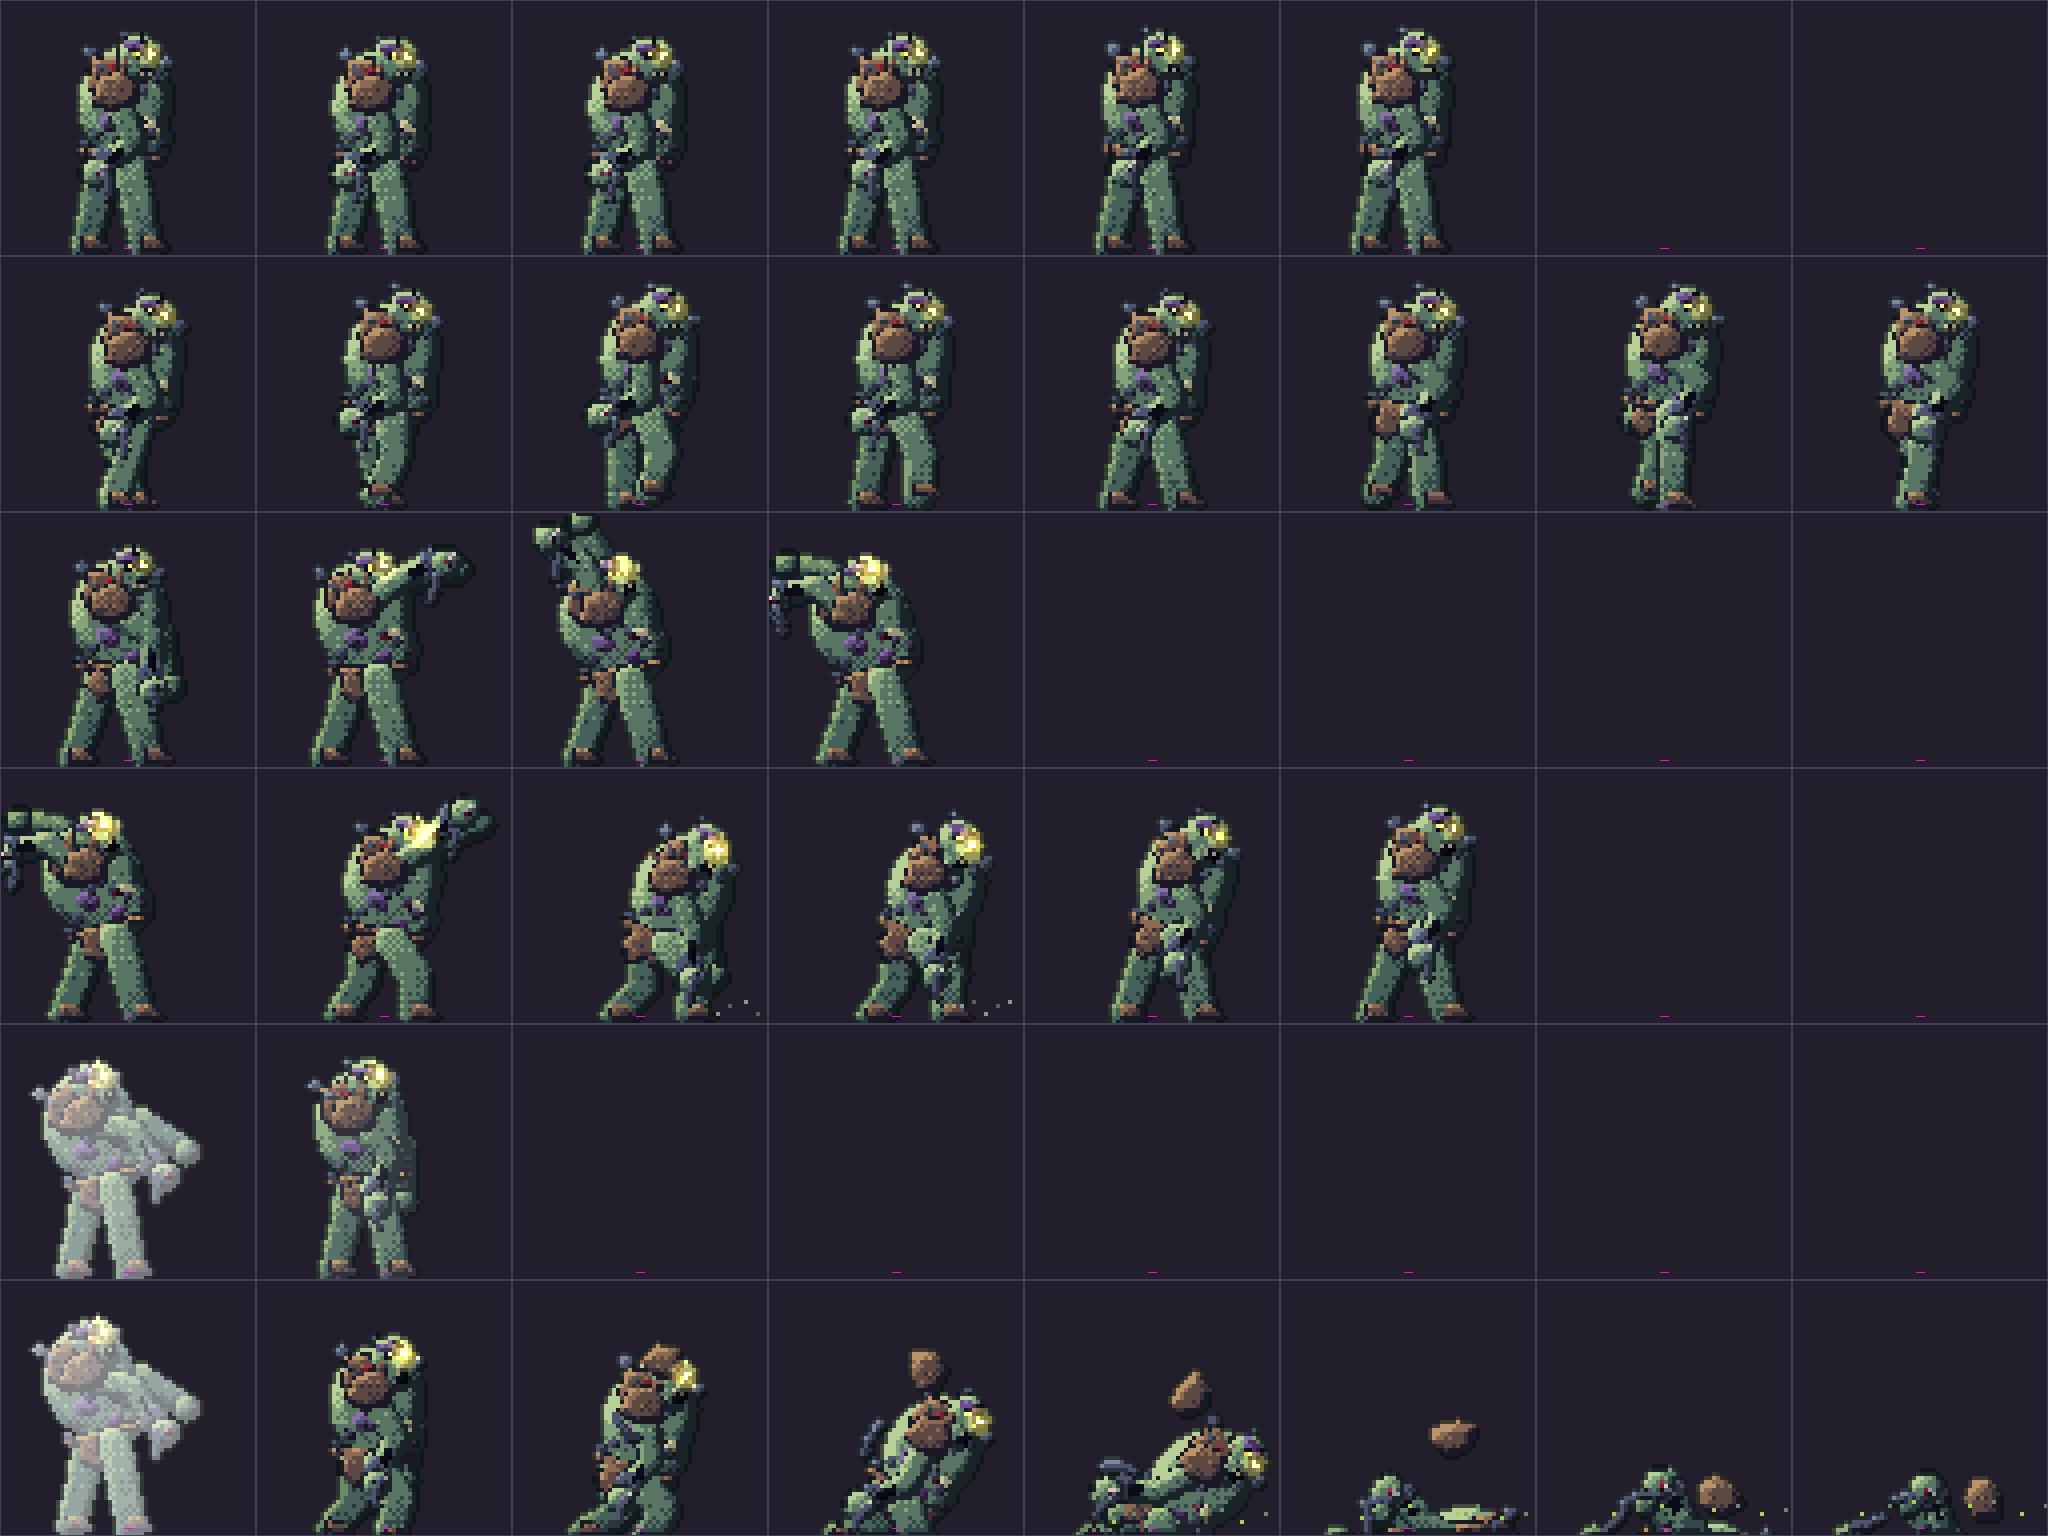
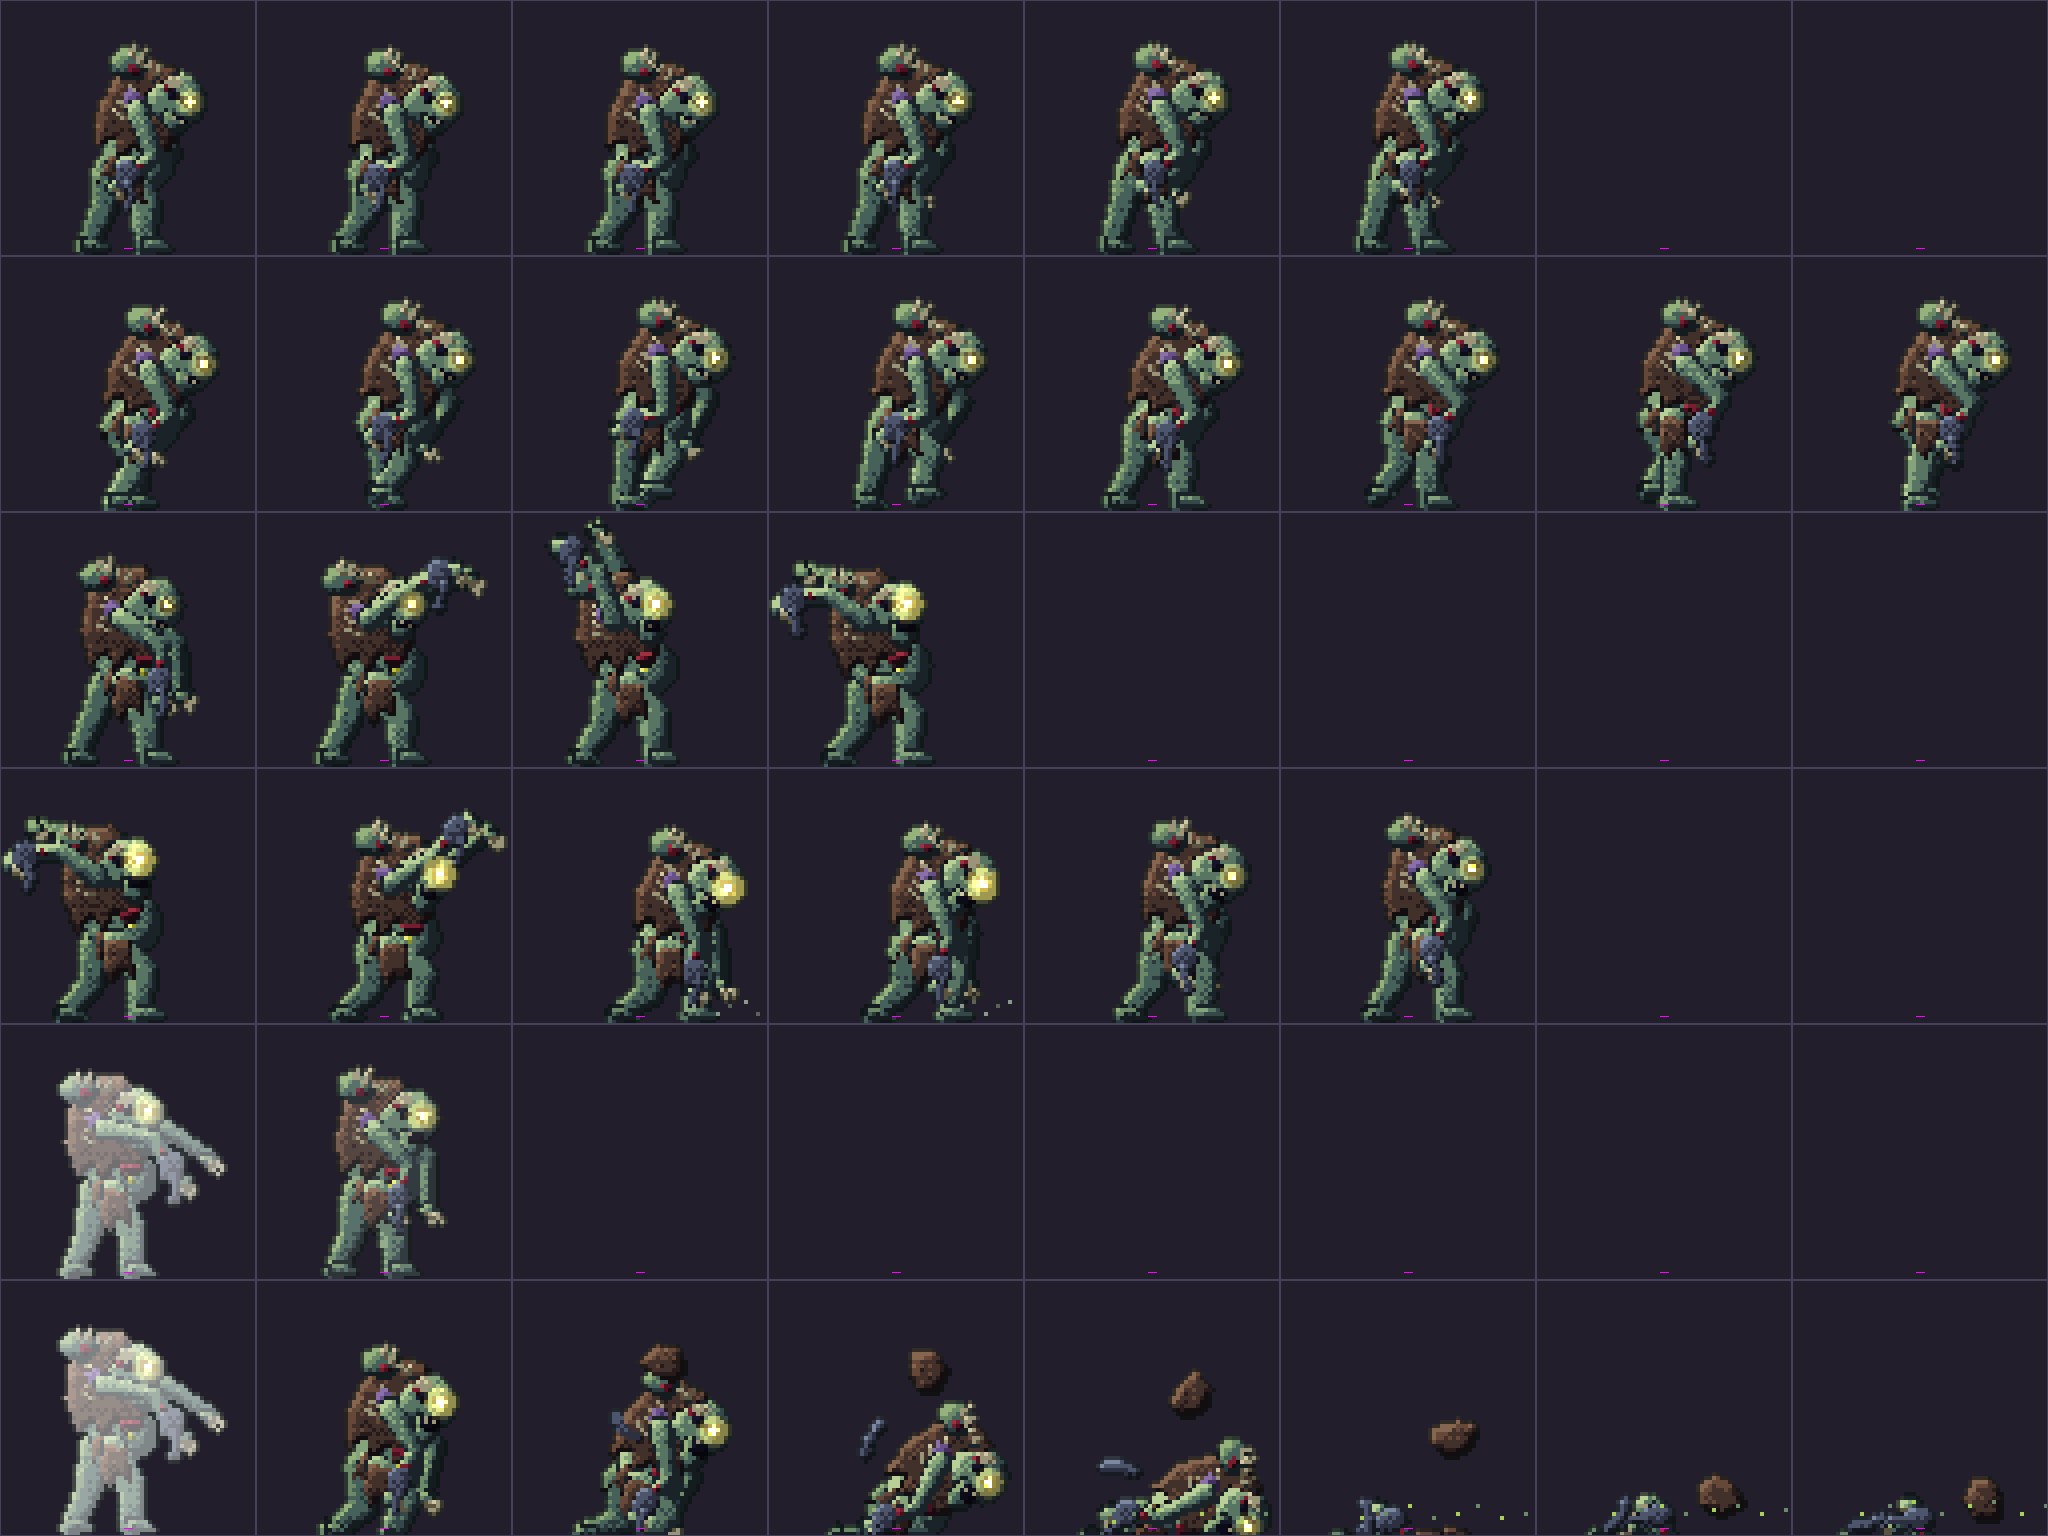
Enemigos (piloto): zombi encorvado con joroba, brazos largos con garras, cabeza caida y harapos (silueta nueva)
Claude-Session: https://claude.ai/code/session_011eeWNo3MRZcztybaatA5Az

diff --git a/tools/art_enemies/en_catacumbas.py b/tools/art_enemies/en_catacumbas.py
@@ -552,104 +552,110 @@ def zom_pose(a, i, n):
     return P
 
 
+RAGZ = Mat(ramp=['#120e10', '#261a1a', '#42302a', '#654838', '#876650'], bevel=1.4, tex=0.5, seed=37)
+PUSZ = Mat(ramp=['#4a4a14', '#8a8c24', '#c4c43c', '#eef07a'], bevel=0.8, tex=0.1, seed=38)
+
+
 def zombi_body(c, P, a='idle', skip_parts=()):
+    """Zombi (rediseno fase 3): cadaver ENCORVADO con joroba de columna expuesta, cabeza caida hacia delante con la mandibula
+    colgando, brazos larguisimos con garras que casi rozan el suelo, vientre hinchado cosido y harapos en vez de armadura.
+    Mismos parametros de pose que la version anterior (hx, dy, lean, arm, arm2, head, belly, jaw, eye...)."""
     hx, dy, lean = P['hx'], P['dy'], P['lean']
     ph = P['ph']
-    hip = (hx, -23 + dy)
-    sl = (math.sin(lean), -math.cos(lean))
+    hip = (hx, -22 + dy)
+    hun = (lean * 0.7 + 0.18) if a in ('windup', 'attack') else (lean + 0.40)                                   # el tronco se dobla hacia delante (encorvado)
+    sl = (math.sin(hun), -math.cos(hun))
     if P['walk']:
         f1 = gait(ph, P['stride'], P['lift']); f2 = gait((ph + 0.5) % 1, P['stride'], P['lift'])
     elif a in ('windup', 'attack'):
         f1, f2 = (-7.0, 0), (6.0, 0)
     else:
         f1, f2 = (-4.5, 0), (4.5, 0)
-    # brazo lejano
-    chest = (hip[0] + 12 * sl[0], hip[1] + 12 * sl[1])
-    shf = (chest[0] + 1, chest[1] - 3)
-    e2, h2 = fk(shf, P['arm2'][0], 12.5, P['arm2'][1], 12.5)
-    with c.part(FLESHZ_B, line=0.5, bevel=2.2) as p:
-        p.limb(shf, e2, 3.4, 3.0)
-        p.limb(e2, h2, 3.0, 2.8)
-    with c.part(FLESHZ_B, line=0.5, bevel=2.0) as p:
-        p.ell(h2[0] + 0.6, h2[1] + 0.6, 3.3)
-    # pierna trasera
-    leg(c, (hip[0] - 3, hip[1] + 2), (hip[0] - 3 + f1[0], f1[1]), 10.2, 10.2, 4.2, 3.6, FLESHZ_B, bend=-1, footmat=ARMOR_R, footlen=6, footh=3.4)
-    # torso: vientre hinchado
-    with c.at(hip[0] + 4.0 * sl[0], hip[1] + 4.0 * sl[1], lean):
-        bl = P['belly']
-        with c.part(FLESHZ, line=0.5, bevel=3.4) as p:
-            p.ell(1.0, -9.5, 11.5 + bl * 0.5, 14.0)                 # tronco
-            p.ell(3.5, -1.0, 9.5 + bl * 0.6, 8.5 + bl * 0.4)        # barriga hinchada
-        with c.part(BRUISE, bevel=1.2) as p:
-            p.ell(-2.0, -4.0, 3.2, 2.4, 0.4)
-            p.ell(4.6, 0.8, 2.2, 1.6, -0.3)
-        with c.part(WOUND, bevel=1.0) as p:
-            p.poly([(5.0, -6.5), (8.5, -5.0), (7.5, -2.6), (4.6, -3.5)])
-            p.ell(-5, -12, 1.8, 1.2)
-        with c.part(TEETH, bevel=0.6) as p:  # costillas expuestas
+    chest = (hip[0] + 13 * sl[0], hip[1] + 13 * sl[1])
+    AL = 12.4                                              # brazos muy largos
+
+    def arm(sh, ang, mat, hand_r):
+        e, h = fk(sh, ang[0], AL, ang[1], AL)
+        with c.part(mat, line=0.5, bevel=2.0) as p:
+            p.limb(sh, e, 2.9, 2.2)
+            p.limb(e, h, 2.2, 1.8)
+        with c.part(mat, line=0.5, bevel=1.6) as p:      # mano grande
+            p.ell(h[0] + 0.5, h[1] + 0.8, hand_r, hand_r * 0.85)
+        with c.part(TEETH, bevel=0.5, line=0.3) as p:    # garras
             for k in range(3):
-                p.limb((6.8 + k * 0.4, -5.8 + k * 1.2), (9.0 + k * 0.4, -5.2 + k * 1.2), 0.45)
-        # cinturon y taparrabos podrido
-        with c.part(ARMOR_R, line=0.5, bevel=1.4) as p:
-            p.poly([(-9, 2.0), (12, 2.5), (12, 5.0), (-9, 4.6)])
-            p.poly([(-6, 4.6), (4, 5.0), (3, 12), (0, 10), (-3, 13), (-7, 9)])
-        # peto oxidado cruzado por cadenas
-        with c.part(ARMOR_R, line=0.5, bevel=1.6) as p:
-            p.poly([(-8, -20), (3, -23), (6, -15), (4, -9), (-5, -8), (-9, -13)])
+                p.limb((h[0] + 0.5 + k * 1.3, h[1] + 1.5), (h[0] + 1.2 + k * 1.3, h[1] + 3.8 + (k % 2) * 0.8), 0.45, 0.2)
+        return e, h
+    # brazo lejano
+    shf = (chest[0] + 2, chest[1] - 1)
+    arm(shf, P['arm2'], FLESHZ_B, 2.3)
+    # pierna trasera: flaca, rodilla hacia dentro
+    leg(c, (hip[0] - 2, hip[1] + 2), (hip[0] - 3 + f1[0], f1[1]), 10.5, 10.5, 3.4, 2.4, FLESHZ_B, bend=-1, footmat=FLESHZ_B, footlen=6, footh=2.6)
+    # torso encorvado
+    with c.at(hip[0] + 3.0 * sl[0], hip[1] + 3.0 * sl[1], hun):
+        bl = P['belly']
+        with c.part(FLESHZ, line=0.5, bevel=3.2) as p:
+            p.ell(1.0, -8.5, 9.0, 12.5)                              # caja toracica hundida
+            p.ell(4.8, 0.5, 8.8 + bl * 0.6, 7.6 + bl * 0.4)          # vientre hinchado y colgante
+        with c.part(RAGZ, line=0.5, bevel=1.4) as p:                 # harapos de la camisa
+            p.poly([(-10, -22), (2, -24), (9, -17), (10.5, -6), (9.5, -1.5), (6, 1.5), (3, -2.5), (0.5, 3.0), (-3, -1.5), (-6, 2.5), (-10, -6)])
+        with c.part(RAGZ, bevel=0.8, line=0.4) as p:                 # tira colgante
+            p.poly([(-2, 2), (3, 2.5), (2.2, 9), (-0.4, 7), (-1.6, 11)])
+        with c.part(WOUND, bevel=1.0) as p:                          # tajo y puntos
+            p.poly([(4.0, -2.4), (9.0, -3.4), (9.4, -1.6), (4.4, -0.6)])
+        with c.part(TEETH, bevel=0.6, line=0.3) as p:                # costillas asomando por el costado
+            for k in range(4):
+                p.limb((-6.4, -15 + k * 2.4), (-2.6, -14.2 + k * 2.4), 0.55, 0.4)
+        with c.part(PUSZ, bevel=0.6) as p:
+            p.ell(7.0, 1.2, 1.0, 0.8)
+        with c.part(BRUISE, bevel=1.2) as p:
+            p.ell(-3.0, -12, 3.0, 2.2, 0.4)
+        # joroba: columna con vertebras que atraviesan la piel
+        with c.part(FLESHZ_B, line=0.5, bevel=2.2) as p:
+            p.ell(-8.4, -19.5, 4.6, 3.8)
+        with c.part(TEETH, bevel=0.6, line=0.3) as p:
+            for k in range(4):
+                p.poly([(-10.6 + k * 2.6, -21.4 + k * 0.5), (-9.4 + k * 2.6, -25.0 + k * 0.7 - (k % 2) * 1.2), (-8.2 + k * 2.6, -21.2 + k * 0.4)])
         with c.part(WOUND, bevel=0.8) as p:
-            p.poly([(-4, -18), (-1, -19), (0, -15)])
-        for (x0, y0, x1, y1) in ((-9, -21, 11, 0), (10, -20, -8, 2)):
-            nlk = 8
-            with c.part(CHAIN, bevel=0.6, line=0.3) as p:
-                for k in range(nlk):
-                    u = k / (nlk - 1)
-                    p.ell(lerp(x0, x1, u), lerp(y0, y1, u) + 1.0 * math.sin(u * 3.14), 1.5, 1.0 if k % 2 else 1.5, 0.5)
+            p.ell(-7.0, -19.0, 1.6, 1.0, 0.3)
     # pierna delantera
-    leg(c, (hip[0] + 3, hip[1] + 2), (hip[0] + 3 + f2[0], f2[1]), 10.2, 10.2, 4.4, 3.7, FLESHZ, bend=-1, footmat=ARMOR_R, footlen=6, footh=3.4)
-    # cabeza
-    nk = (hip[0] + 21 * sl[0] + 0, hip[1] + 21 * sl[1] - 2)
+    leg(c, (hip[0] + 3, hip[1] + 2), (hip[0] + 3 + f2[0], f2[1]), 10.5, 10.5, 3.6, 2.5, FLESHZ, bend=-1, footmat=FLESHZ, footlen=6.5, footh=2.8)
+    with c.part(RAGZ, line=0.4, bevel=1.0) as p:               # pernera rota
+        p.poly([(hip[0] + 0.5, hip[1] + 1), (hip[0] + 6.5, hip[1] + 1.5), (hip[0] + 6.5 + f2[0] * 0.2, hip[1] + 11), (hip[0] + 4.0, hip[1] + 8.5), (hip[0] + 2.0, hip[1] + 12), (hip[0] - 0.5, hip[1] + 8)])
+    # cabeza: grande, caida, con la mandibula descolgada
+    nk = (chest[0] + 6.5 * sl[0] + 2.5, chest[1] + 6.5 * sl[1] + 2.0)
     hd = P['head']
-    with c.at(nk[0] + 3.5, nk[1] - 2.0, lean * 0.5 + hd):
-        with c.part(FLESHZ, line=0.5, bevel=2.4) as p:
-            p.ell(0, 0, 5.6, 5.0)
-            p.poly([(-3.5, 3), (4.0, 2.6), (4.2, 5.0 + P['jaw'] * 0.5), (-1.0, 5.8 + P['jaw'] * 0.6)])
-        with c.part(BRUISE, bevel=1.0) as p:
-            p.ell(-1, -2.5, 3, 1.4)
+    jw = P['jaw']
+    with c.at(nk[0] + 3.0, nk[1], lean * 0.3 + hd + 0.35):
+        with c.part(FLESHZ, line=0.5, bevel=2.6) as p:
+            p.ell(0, 0, 7.4, 6.6)
+        with c.part(FLESHZ_B, line=0.5, bevel=1.8) as p:         # mandibula colgando
+            p.poly([(-1.5, 3.2), (4.8, 3.0), (5.2, 5.0 + jw * 0.55), (3.0, 7.2 + jw * 0.7), (-0.5, 6.0 + jw * 0.5)])
         with c.part(DARK) as p:
-            p.ell(2.8, -0.8, 1.7, 1.5)
-            p.ell(-0.6, -0.8, 1.3, 1.2)
-            p.poly([(1.0, 3.2), (4.0, 3.0), (4.0, 3.2 + P['jaw'] * 0.5), (1.0, 3.6 + P['jaw'] * 0.5)])
+            p.poly([(0.6, 3.4), (5.0, 3.2), (4.8, 3.6 + jw * 0.5), (0.8, 4.0 + jw * 0.5)])   # boca
+            p.ell(3.4, -1.0, 2.0, 1.8)                            # cuenca ocular
+            p.ell(-1.0, -0.8, 1.5, 1.4)
         with c.part(EYEY) as p:
-            p.ell(3.0, -0.8, 0.9 + 0.3 * P['eye'], 0.9 + 0.3 * P['eye'])
-            p.ell(-0.5, -0.8, 0.7, 0.7)
-        c.glow(3.0, -0.8, 3 + 2 * P['eye'], '#ffe050', 0.3 + 0.5 * P['eye'])
-        with c.part(TEETH) as p:
-            p.rect(0.5, 3.4, 1.4, 4.6); p.rect(2.4, 3.4, 3.3, 4.4)
-        with c.part(CHAIN, bevel=0.5) as p:
-            p.ell(-4, -5, 1, 0.8)
-    # hombrera enorme cercana
-    shn = (chest[0] - 1, chest[1] - 3)
-    e1, h1 = fk(shn, P['arm'][0], 12.5, P['arm'][1], 12.5)
-    with c.part(FLESHZ, line=0.5, bevel=2.2) as p:
-        p.limb(shn, e1, 3.8, 3.3)
-        p.limb(e1, h1, 3.3, 3.0)
-    # grillete y cadena colgando del antebrazo
-    ew = (lerp(e1[0], h1[0], 0.75), lerp(e1[1], h1[1], 0.75))
+            p.ell(3.5, -0.9, 1.0 + 0.4 * P['eye'], 1.0 + 0.4 * P['eye'])
+        c.glow(3.5, -0.9, 3 + 2 * P['eye'], '#ffe050', 0.3 + 0.5 * P['eye'])
+        with c.part(TEETH, bevel=0.5) as p:
+            p.rect(1.2, 3.6, 2.0, 5.0); p.rect(3.2, 3.6, 4.0, 4.8)
+            p.poly([(-5.8, -3.0), (-2.0, -5.8), (0.5, -4.6), (-1.5, -2.0)])        # craneo expuesto
+        with c.part(WOUND, bevel=0.6) as p:
+            p.ell(-3.2, -1.8, 1.0, 0.8)
+        with c.part(RAGZ, bevel=0.6, line=0.3) as p:             # mechones de pelo
+            p.limb((-5.0, -3.5), (-7.5, 1.5), 0.5, 0.3)
+            p.limb((-3.8, -4.8), (-7.0, -1.0), 0.5, 0.3)
+    # brazo cercano con grillete y cadena
+    shn = (chest[0] - 1, chest[1] - 1)
+    e1, h1 = arm(shn, P['arm'], FLESHZ, 2.7)
+    ew = (lerp(e1[0], h1[0], 0.7), lerp(e1[1], h1[1], 0.7))
     with c.part(CHAIN, bevel=0.7, line=0.3) as p:
-        p.limb((ew[0], ew[1] - 0.6), (ew[0], ew[1] + 0.8), 3.4)
-    with c.part(FLESHZ, line=0.5, bevel=2.0) as p:
-        p.ell(h1[0] + 0.8, h1[1] + 0.8, 3.9)
-    with c.part(WOUND, bevel=0.8) as p:
-        p.ell(h1[0] + 1.5, h1[1] + 0.5, 1.2, 0.8)
+        p.limb((ew[0], ew[1] - 0.8), (ew[0], ew[1] + 0.8), 3.0)
+    with c.part(WOUND, bevel=0.6) as p:
+        p.ell(lerp(e1[0], h1[0], 0.35), lerp(e1[1], h1[1], 0.35), 1.1, 0.8)
     with c.part(CHAIN, bevel=0.6, line=0.3) as p:
         for k in range(4):
-            p.ell(ew[0] + 0.5 + math.sin(k + P['ph'] * 6.28) * 0.7, ew[1] + 3 + k * 2.0, 1.3, 0.9 if k % 2 else 1.3)
-    with c.part(ARMOR_R, line=0.5, bevel=1.8) as p:
-        sx, sy = shn[0] - 1, shn[1] - 1
-        p.poly([(sx - 5.5, sy + 3), (sx - 4, sy - 3.5), (sx + 2, sy - 6), (sx + 6.5, sy - 2), (sx + 6, sy + 3), (sx, sy + 5)])
-    with c.part(ARMOR_R, bevel=0.8) as p:
-        p.poly([(shn[0] + 0.5, shn[1] - 6), (shn[0] + 2.0, shn[1] - 10.5), (shn[0] + 3.5, shn[1] - 5.5)])
-        p.poly([(shn[0] - 4.0, shn[1] - 4.5), (shn[0] - 6.5, shn[1] - 8.5), (shn[0] - 2.2, shn[1] - 5.2)])
+            p.ell(ew[0] + 0.5 + math.sin(k + P['ph'] * 6.28) * 0.7, ew[1] + 2.4 + k * 1.9, 1.2, 0.85 if k % 2 else 1.2)
     if 'k' in P and 0.35 < P['k'] < 0.7:
         for q in range(7):
             c.dotw(10 + q * 3.2 + (P['k'] - 0.4) * 14, -1 - (q % 3) * 1.3, '#8a9a8a' if q % 2 else '#586458')
@@ -690,7 +696,7 @@ def death_zombi(c, i, n):
             zombi_body(c, P, 'hurt')
     # piezas desprendidas: hombrera y cadenas
     items = [
-        dict(fn=lambda cc: [cc.part(ARMOR_R, line=0.5, bevel=1.8).__enter__().poly([(-5, 2.5), (-3.5, -3), (2, -5), (6, -1.5), (5.5, 2.5), (0, 4)]).finish()], x=4, y=-40, r=4, vx=6, vy=-9, spin=4, rest=0.3),
+        dict(fn=lambda cc: [cc.part(RAGZ, line=0.5, bevel=1.4).__enter__().poly([(-5, 2.5), (-3.5, -3), (2, -5), (6, -1.5), (5.5, 2.5), (0, 4)]).finish()], x=4, y=-40, r=4, vx=6, vy=-9, spin=4, rest=0.3),
         dict(fn=lambda cc: [cc.part(CHAIN, bevel=0.6).__enter__().tube([(-4, 0), (0, 1), (4, 0)], 1.1).finish()], x=-2, y=-25, r=1.5, vx=-6, vy=-5, spin=6, rest=0.1),
     ]
     for d_ in items:
